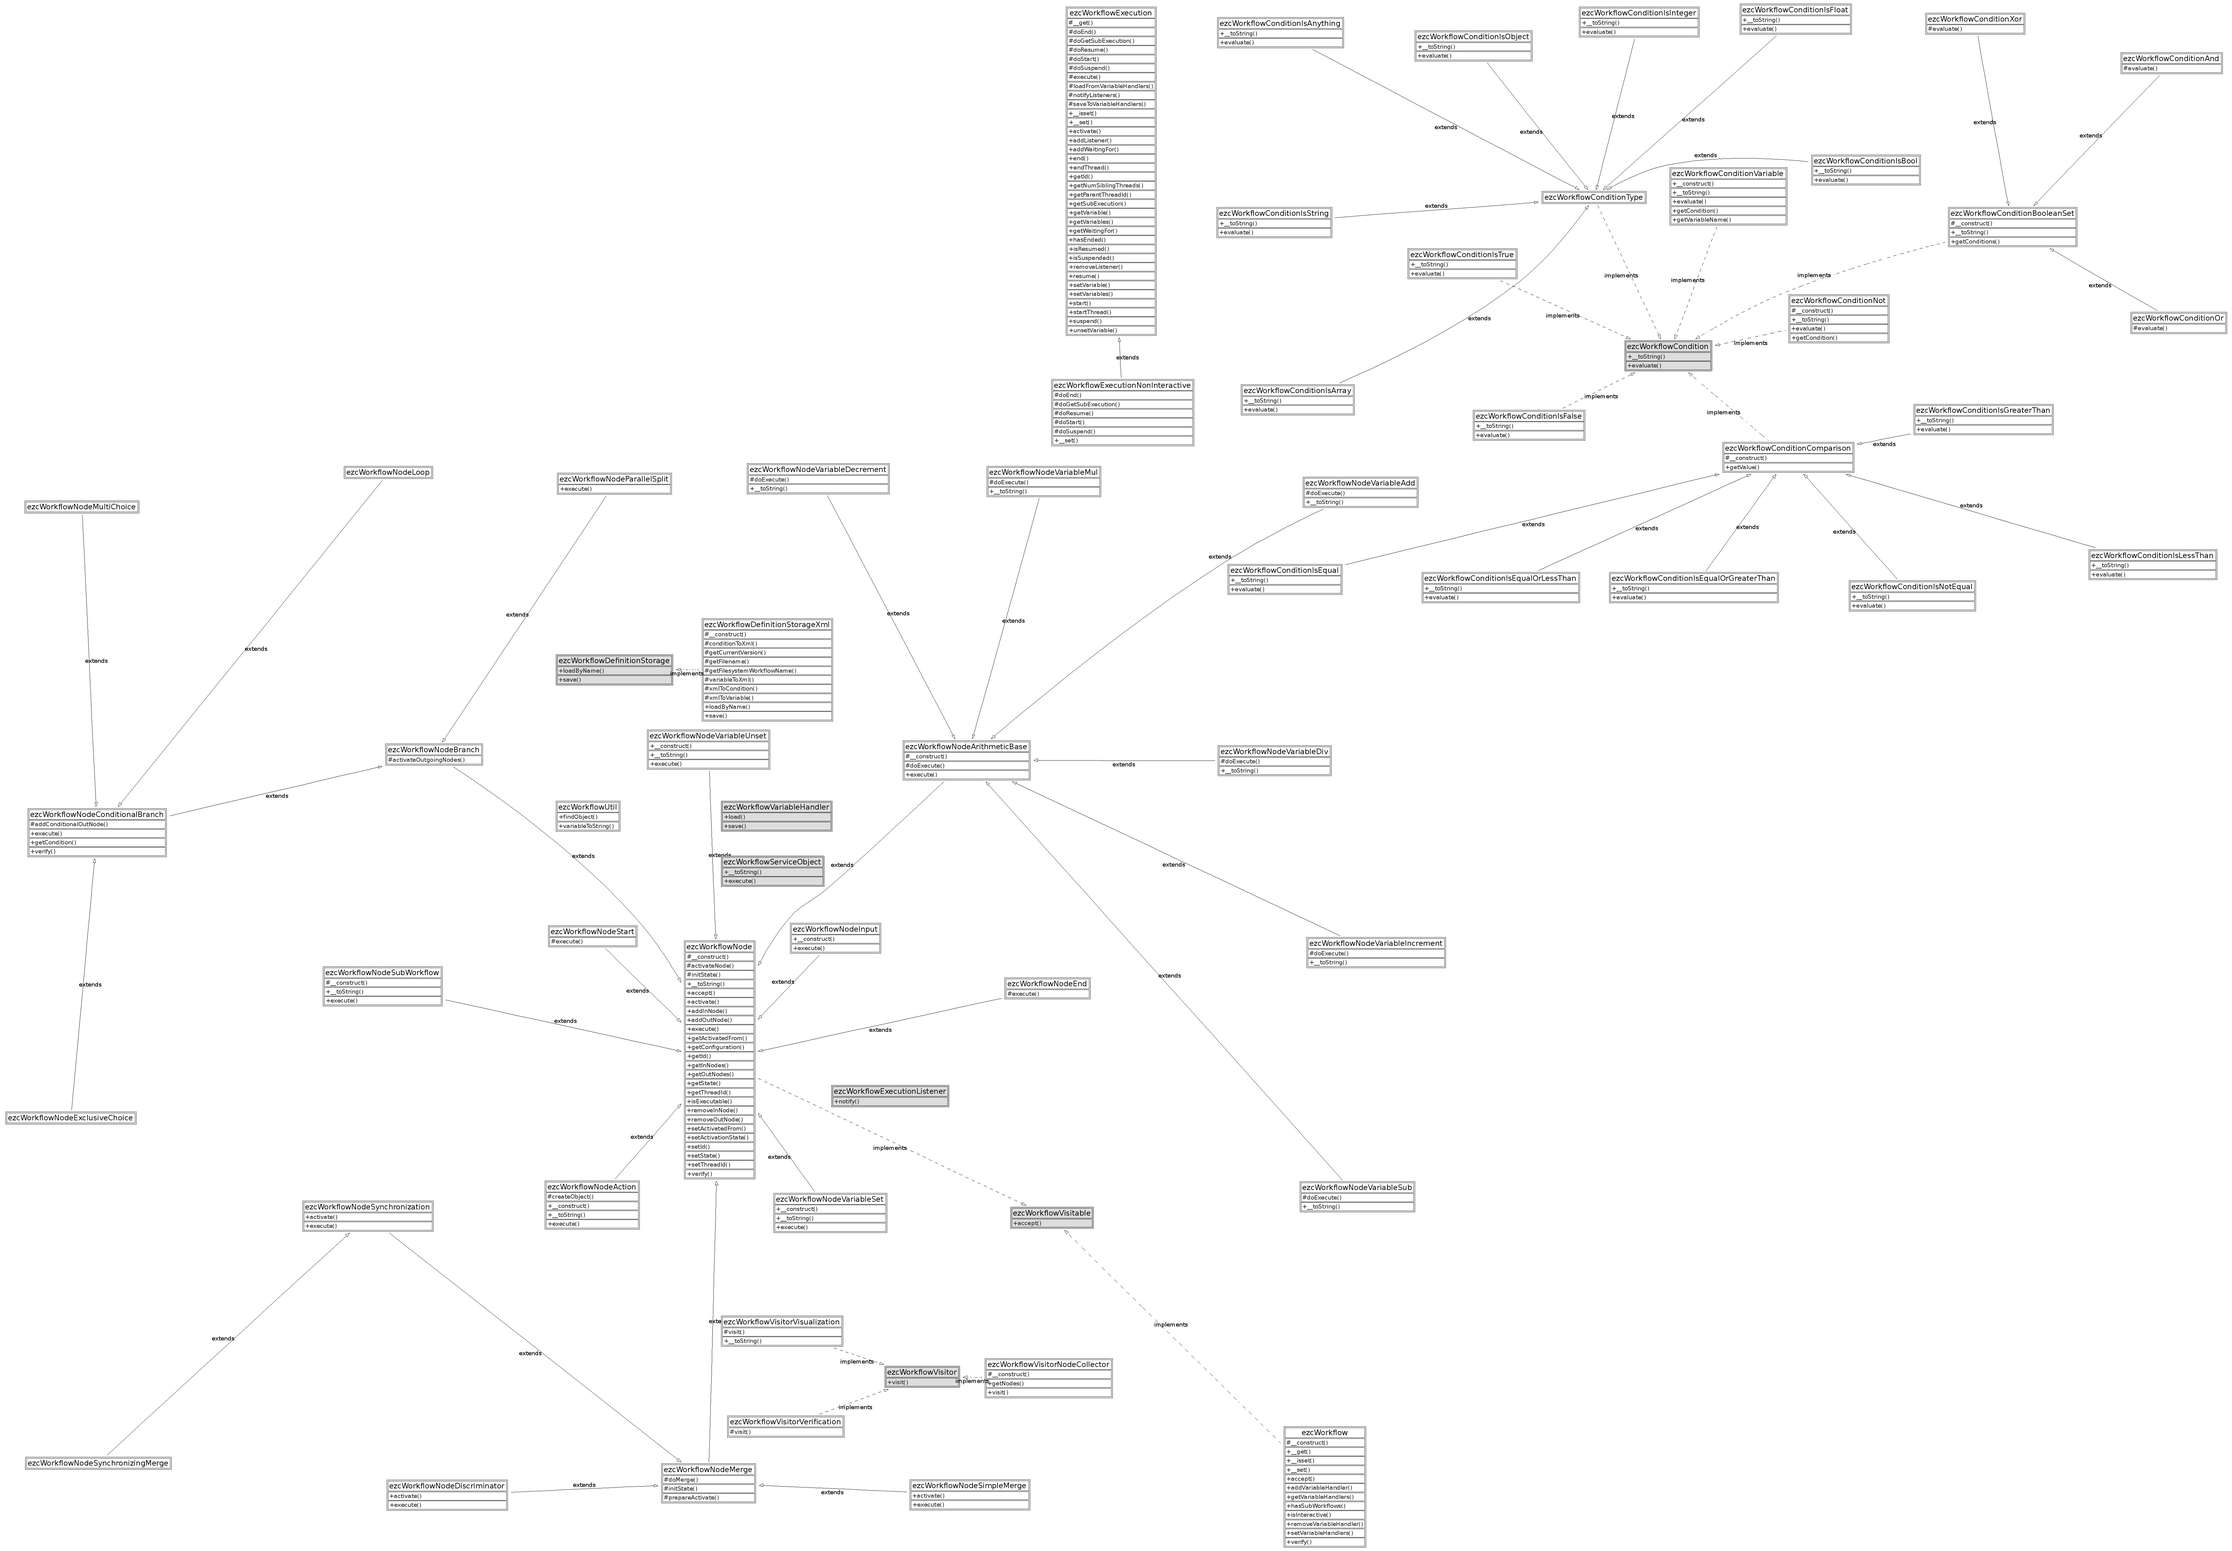
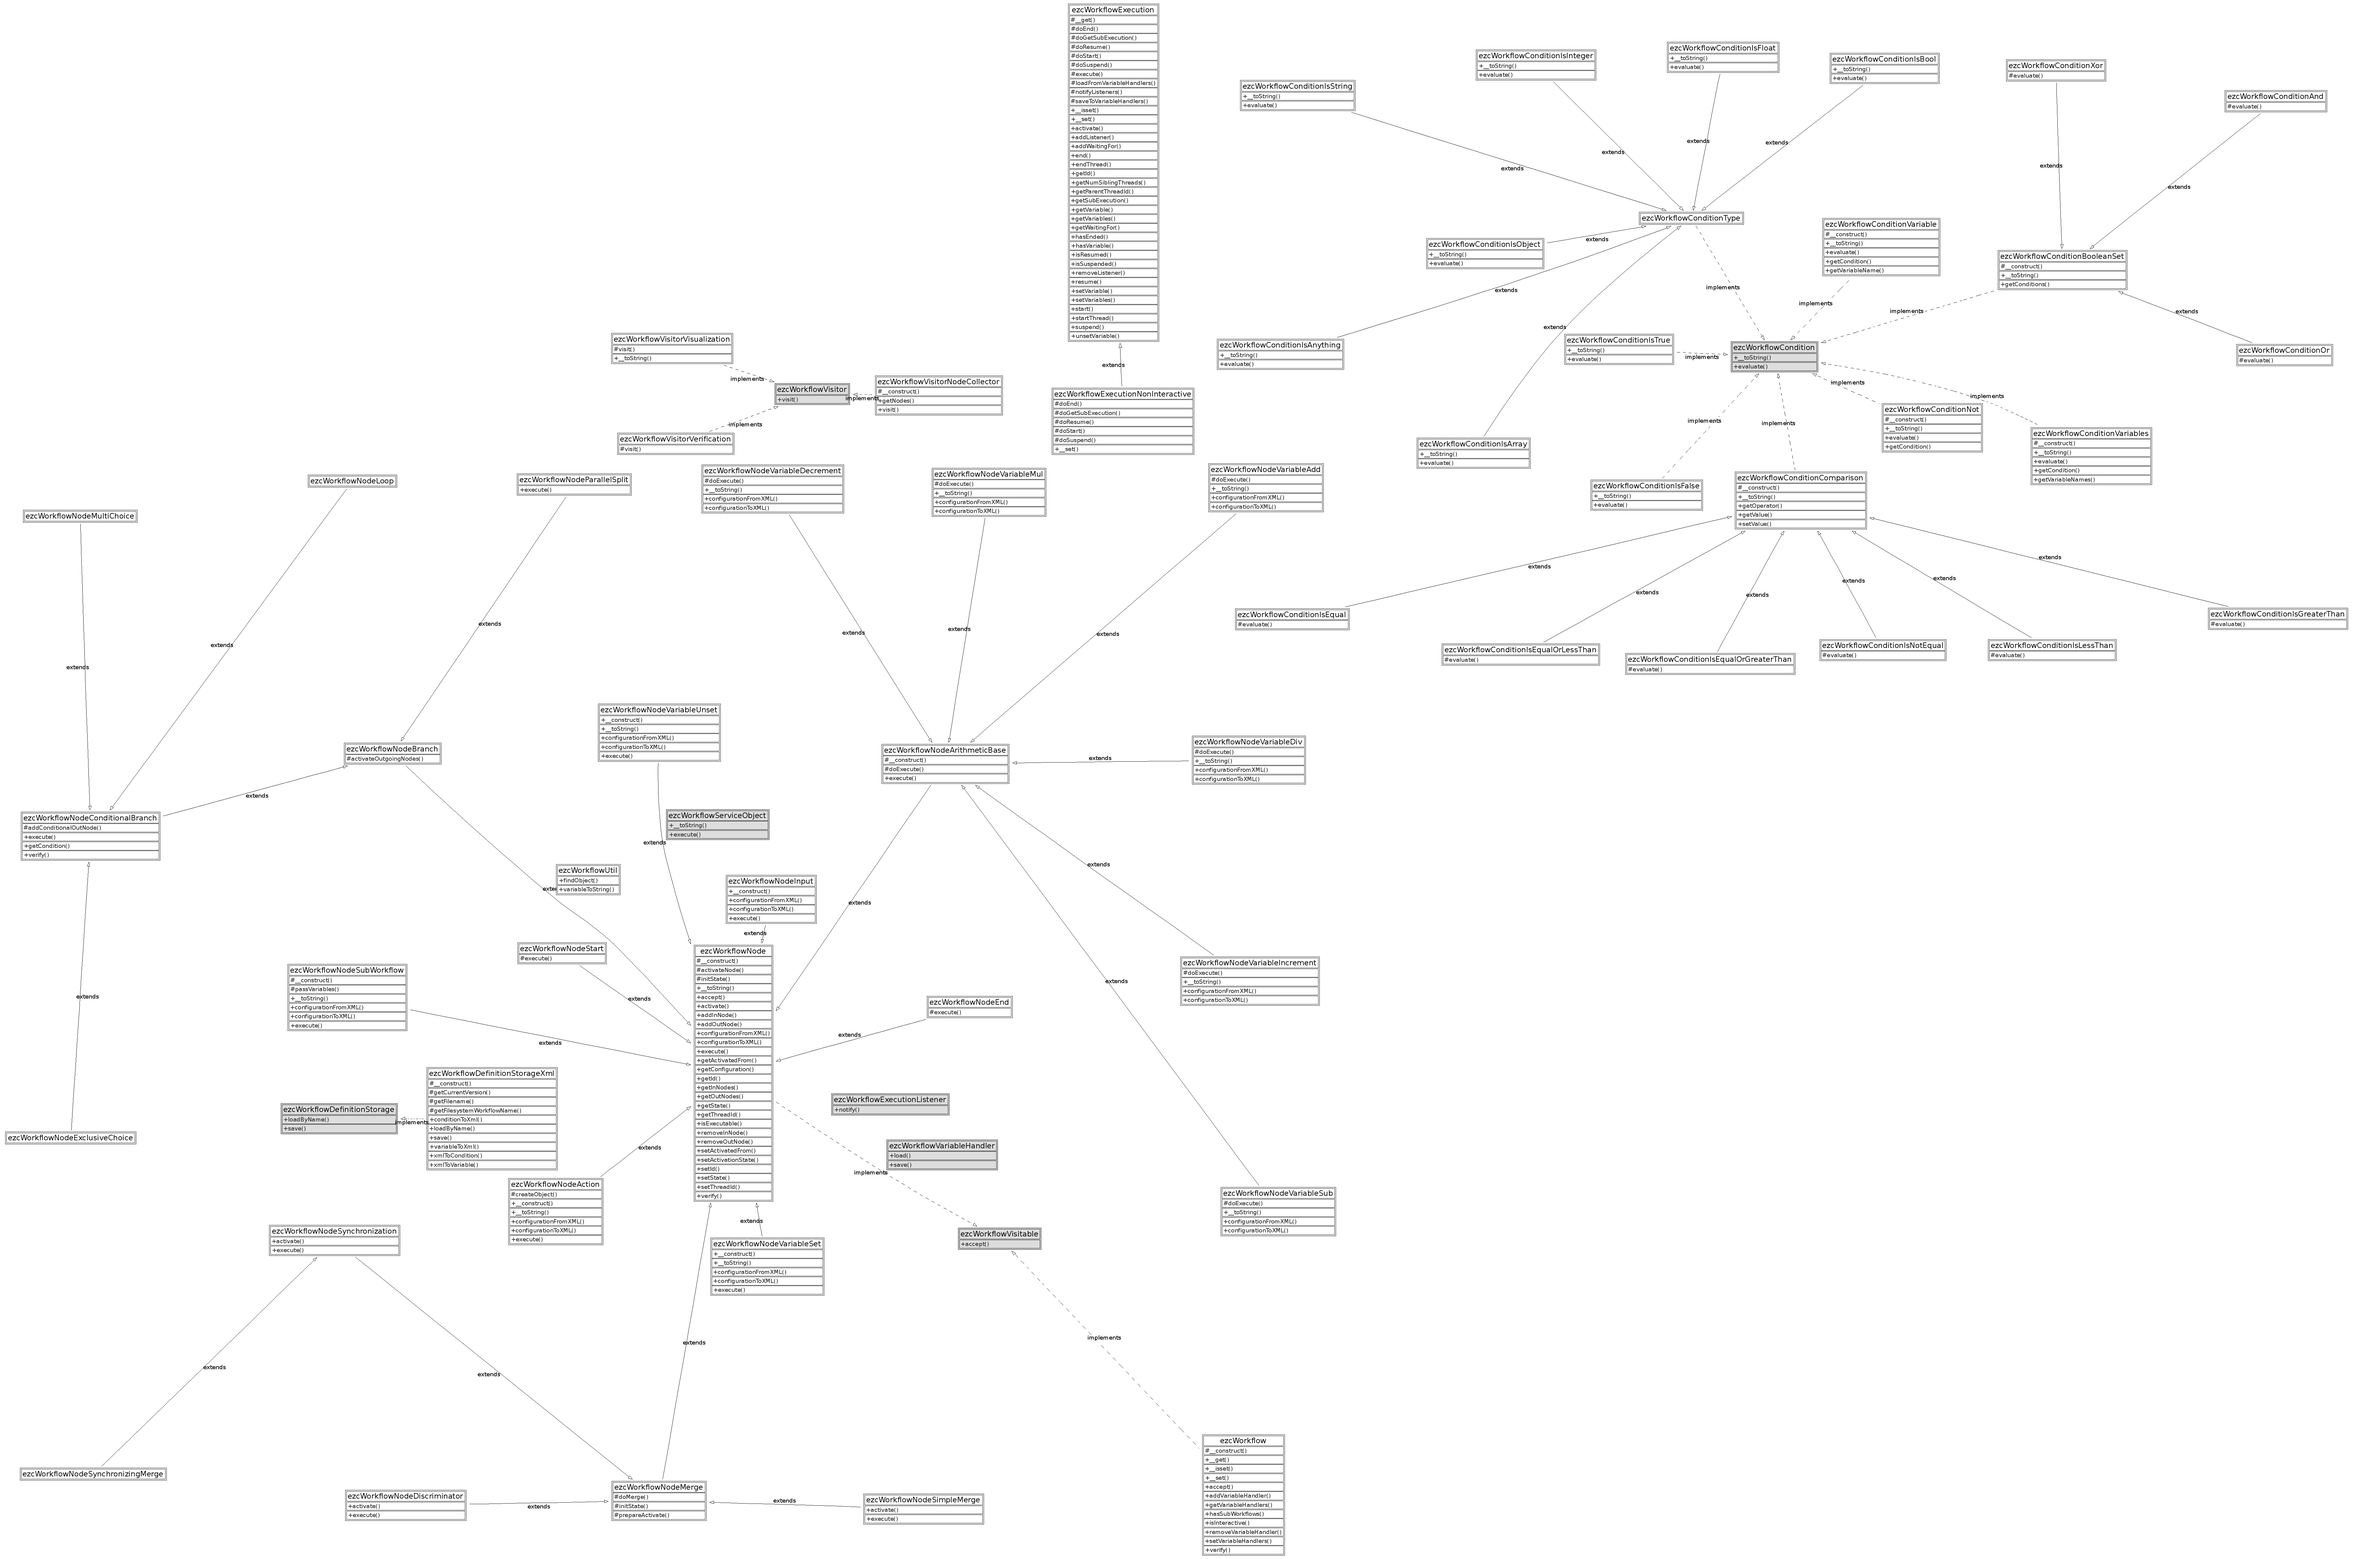
- Implement issue #10883: Apply comparison conditions to two variables.
git-svn-id: http://svn.ez.no/svn/ezcomponents/trunk/Workflow@5860 bc0e7bdc-f0fc-0310-8ff6-f601c06e1256

diff --git a/src/conditions/variables.php b/src/conditions/variables.php
@@ -1,0 +1,115 @@
+<?php
+/**
+ * File containing the ezcWorkflowConditionVariables class.
+ *
+ * @package Workflow
+ * @version //autogen//
+ * @copyright Copyright (C) 2005-2007 eZ systems as. All rights reserved.
+ * @license http://ez.no/licenses/new_bsd New BSD License
+ */
+
+/**
+ * Wrapper that applies a condition to two workflow variables.
+ *
+ * @package Workflow
+ * @version //autogen//
+ */
+class ezcWorkflowConditionVariables implements ezcWorkflowCondition
+{
+    /**
+     * @var string
+     */
+    protected $variableNameA;
+
+    /**
+     * @var string
+     */
+    protected $variableNameB;
+
+    /**
+     * @var string
+     */
+    protected $ezcWorkflowCondition;
+
+    /**
+     * Constructor.
+     *
+     * @param  string $variableNameA
+     * @param  string $variableNameB
+     * @param  ezcWorkflowCondition $condition
+     * @throws ezcWorkflowInvalidWorkflowException
+     */
+    public function __construct( $variableNameA, $variableNameB, ezcWorkflowCondition $condition )
+    {
+        if ( !$condition instanceof ezcWorkflowConditionComparison )
+        {
+            throw new ezcWorkflowInvalidWorkflowException;
+        }
+
+        $this->variableNameA = $variableNameA;
+        $this->variableNameB = $variableNameB;
+        $this->condition     = $condition;
+    }
+
+    /**
+     * Evaluates this condition.
+     *
+     * @param  mixed $value
+     * @return boolean true when the condition holds, false otherwise.
+     * @ignore
+     */
+    public function evaluate( $value )
+    {
+        if ( is_array( $value ) &&
+             isset( $value[$this->variableNameA] ) &&
+             isset( $value[$this->variableNameB] ) )
+        {
+            $this->condition->setValue( $value[$this->variableNameA] );
+            return $this->condition->evaluate( $value[$this->variableNameB] );
+        }
+        else
+        {
+            return false;
+        }
+    }
+
+    /**
+     * Returns the condition.
+     *
+     * @return ezcWorkflowCondition
+     * @ignore
+     */
+    public function getCondition()
+    {
+        return $this->condition;
+    }
+
+    /**
+     * Returns the names of the variables the condition is evaluated for.
+     *
+     * @return array
+     * @ignore
+     */
+    public function getVariableNames()
+    {
+        return array( $this->variableNameA, $this->variableNameB );
+    }
+
+    /**
+     * Returns a textual representation of this condition.
+     *
+     * @return string
+     * @ignore
+     */
+    public function __toString()
+    {
+        return sprintf(
+          '%s %s %s',
+
+          $this->variableNameA,
+          $this->condition->getOperator(),
+          $this->variableNameB
+        );
+    }
+}
+?>

diff --git a/tests/case.php b/tests/case.php
@@ -230,6 +230,49 @@ abstract class ezcWorkflowTestCase extends ezcTestCase
         $this->endNode->addInNode( $add );
     }
 
+    protected function setUpVariableEqualsVariable()
+    {
+        $this->workflow = new ezcWorkflow( 'VariableEqualsVariable' );
+        $this->setUpReferences();
+
+        $set = new ezcWorkflowNodeVariableSet(
+          array( 'a' => 1, 'b' => 1 )
+        );
+
+        $set2 = new ezcWorkflowNodeVariableSet(
+          array( 'c' => 1 )
+        );
+
+        $set3 = new ezcWorkflowNodeVariableSet(
+          array( 'c' => 0 )
+        );
+
+        $this->branchNode = new ezcWorkflowNodeExclusiveChoice;
+        $this->branchNode->addInNode( $set );
+
+        $this->branchNode->addConditionalOutNode(
+          new ezcWorkflowConditionVariables(
+            'a', 'b', new ezcWorkflowConditionIsEqual
+          ),
+          $set2
+        );
+
+        $this->branchNode->addConditionalOutNode(
+          new ezcWorkflowConditionVariables(
+            'a', 'b', new ezcWorkflowConditionIsNotEqual
+          ),
+          $set3
+        );
+
+        $simpleMerge = new ezcWorkflowNodeSimpleMerge;
+
+        $simpleMerge->addInNode( $set2 )
+                    ->addInNode( $set3 );
+
+        $this->startNode->addOutNode( $set );
+        $this->endNode->addInNode( $simpleMerge );
+    }
+
     protected function setUpParallelSplitSynchronization()
     {
         $this->workflow = new ezcWorkflow( 'ParallelSplitSynchronization' );

diff --git a/src/definition_storage/xml.php b/src/definition_storage/xml.php
@@ -295,6 +295,18 @@ class ezcWorkflowDefinitionStorageXml implements ezcWorkflowDefinitionStorage
             }
             break;
 
+            case 'ezcWorkflowConditionVariables': {
+                list( $variableNameA, $variableNameB ) = $condition->getVariableNames();
+
+                $xmlCondition->setAttribute( 'a', $variableNameA );
+                $xmlCondition->setAttribute( 'b', $variableNameB );
+
+                $xmlCondition->appendChild(
+                  self::conditionToXml( $condition->getCondition(), $document )
+                );
+            }
+            break;
+
             case 'ezcWorkflowConditionAnd':
             case 'ezcWorkflowConditionOr':
             case 'ezcWorkflowConditionXor': {
@@ -343,6 +355,15 @@ class ezcWorkflowDefinitionStorageXml implements ezcWorkflowDefinitionStorage
             case 'ezcWorkflowConditionVariable': {
                 return new $class(
                   $element->getAttribute( 'name' ),
+                  self::xmlToCondition( $element->childNodes->item( 1 ) )
+                );
+            }
+            break;
+
+            case 'ezcWorkflowConditionVariables': {
+                return new $class(
+                  $element->getAttribute( 'a' ),
+                  $element->getAttribute( 'b' ),
                   self::xmlToCondition( $element->childNodes->item( 1 ) )
                 );
             }

diff --git a/tests/definition_xml_test.php b/tests/definition_xml_test.php
@@ -119,6 +119,17 @@ class ezcWorkflowDefinitionStorageXmlTest extends ezcWorkflowTestCase
         );
     }
 
+    public function testSaveVariableEqualsVariable()
+    {
+        $this->setUpVariableEqualsVariable();
+        $this->definition->save( $this->workflow );
+
+        $this->assertEquals(
+          $this->readExpected( 'VariableEqualsVariable' ),
+          $this->readActual( 'VariableEqualsVariable' )
+        );
+    }
+
     public function testSaveParallelSplitSynchronization()
     {
         $this->setUpParallelSplitSynchronization();
@@ -337,6 +348,17 @@ class ezcWorkflowDefinitionStorageXmlTest extends ezcWorkflowTestCase
         $this->assertEquals(
           $this->readExpected( 'AddVariables' ),
           $this->readActual( 'AddVariables' )
+        );
+    }
+
+    public function testLoadVariableEqualsVariable()
+    {
+        $this->workflow = $this->definition->loadByName( 'VariableEqualsVariable' );
+        $this->definition->save( $this->workflow );
+
+        $this->assertEquals(
+          $this->readExpected( 'VariableEqualsVariable' ),
+          $this->readActual( 'VariableEqualsVariable' )
         );
     }
 

diff --git a/tests/execution_test.php b/tests/execution_test.php
@@ -300,6 +300,18 @@ class ezcWorkflowExecutionTest extends ezcWorkflowTestCase
         $this->fail();
     }
 
+    public function testExecuteVariableEqualsVariable()
+    {
+        $this->setUpVariableEqualsVariable();
+        $this->execution->workflow = $this->workflow;
+        $this->execution->start();
+
+        $this->assertTrue( $this->execution->hasEnded() );
+        $this->assertFalse( $this->execution->isResumed() );
+        $this->assertFalse( $this->execution->isSuspended() );
+        $this->assertEquals( 1, $this->execution->getVariable( 'c' ) );
+    }
+
     public function testExecuteParallelSplitSynchronization()
     {
         $this->setUpParallelSplitSynchronization();

diff --git a/tests/condition_test.php b/tests/condition_test.php
@@ -190,6 +190,18 @@ class ezcWorkflowConditionTest extends ezcTestCase
         $this->assertFalse( $condition->evaluate( array( 'bar' => 'foo' ) ) );
     }
 
+    public function testVariables()
+    {
+        $condition = new ezcWorkflowConditionVariables(
+          'foo',
+          'bar',
+          new ezcWorkflowConditionIsEqual
+        );
+
+        $this->assertTrue( $condition->evaluate( array( 'foo' => 'baz', 'bar' => 'baz' ) ) );
+        $this->assertFalse( $condition->evaluate( array( 'foo' => 'bar', 'bar' => 'foo' ) ) );
+    }
+
     public function testAnd()
     {
         $true = new ezcWorkflowConditionIsTrue;

diff --git a/src/workflow_autoload.php b/src/workflow_autoload.php
@@ -49,6 +49,7 @@ return array(
     'ezcWorkflowConditionNot'                  => 'Workflow/conditions/not.php',
     'ezcWorkflowConditionOr'                   => 'Workflow/conditions/or.php',
     'ezcWorkflowConditionVariable'             => 'Workflow/conditions/variable.php',
+    'ezcWorkflowConditionVariables'            => 'Workflow/conditions/variables.php',
     'ezcWorkflowConditionXor'                  => 'Workflow/conditions/xor.php',
     'ezcWorkflowDefinitionStorageXml'          => 'Workflow/definition_storage/xml.php',
     'ezcWorkflowExecutionListener'             => 'Workflow/interfaces/execution_listener.php',
